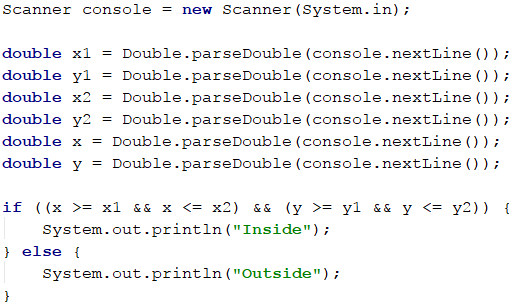
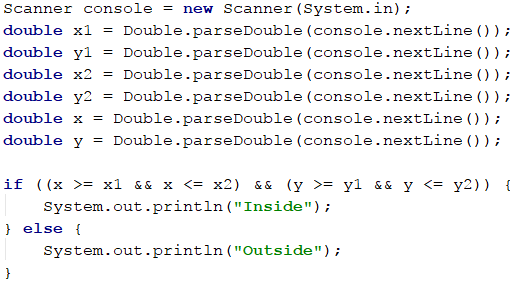
Finished problem "Fruit or Vegetable"

diff --git a/chapter-04-complex-conditions.md b/chapter-04-complex-conditions.md
@@ -125,6 +125,7 @@ boolean result = a && b && c && d;
 
 Програмата ще се изпълни по **следния** начин: **започва** проверката от **`а`**, **прочита** я и отчита, че има стойност **`true`**, след което **проверява** **`b`**. След като е **отчелa**, че **`a`** и **`b`** връщат стойност **`true`**, **проверява следващия** аргумент. Стига до **`c`** и отчита, че променливата има стойност **`false`**. След като програмата отчете, че аргументът **`c`** има стойност **`false`**, тя изчислява израза **до `c`**, **независимо** каква е стойността на **`d`**. За това проверката на **`d`** се **прескача** и целият израз бива изчислен като **`false`**.
 
+![](/assets/chapter-4-images/00.Logical-and-Java-01.png)
 
 ### Пример: точка в правоъгълник
 
@@ -169,18 +170,18 @@ boolean result = a && b && c && d;
 
 **Пример**:
 
-```csharp
-bool a = false;
-bool b = true;
-bool c = false;
-bool d = true;
-bool result = a || b || c || d;
+```java
+boolean a = false;
+boolean b = true;
+boolean c = false;
+boolean d = true;
+boolean result = a || b || c || d;
 // true (като c и d не се проверяват)
 ```
 
 Програмата **проверява `а`**, отчита, че има стойност **`false`** и продължава. Стигайки до **`b`**, отчита, че има стойност **`true`** и целият **израз** получава стойност **`true`**, **без** да се проверява **`c`** и **`d`**, защото техните стойности **не биха променили** резултата на израза.
 
-![](/assets/chapter-4-images/00.Logical-or-02.png)
+![](/assets/chapter-4-images/00.Logical-or-Java-01.png)
 
 ### Пример: плод или зеленчук
 
@@ -196,7 +197,7 @@ bool result = a || b || c || d;
 
 Трябва да използваме няколко условни проверки с логическо "**ИЛИ**" (**`||`**):
 
-![](assets/chapter-4-images/04.Fruit-or-vegetable-01.png)
+![](assets/chapter-4-images/04.Fruit-or-vegetable-Java-01.png)
 
 #### Тестване на решението:
 
